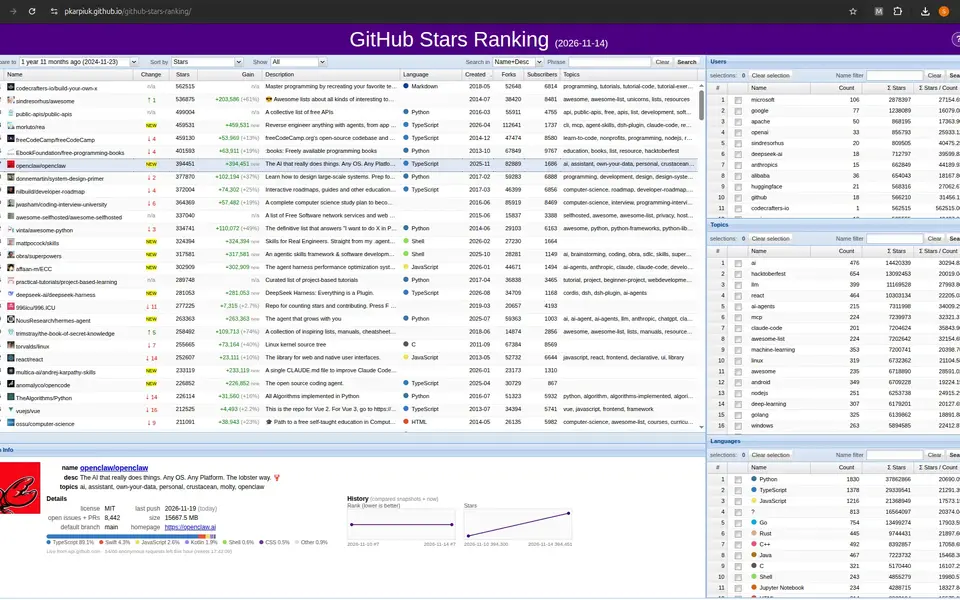
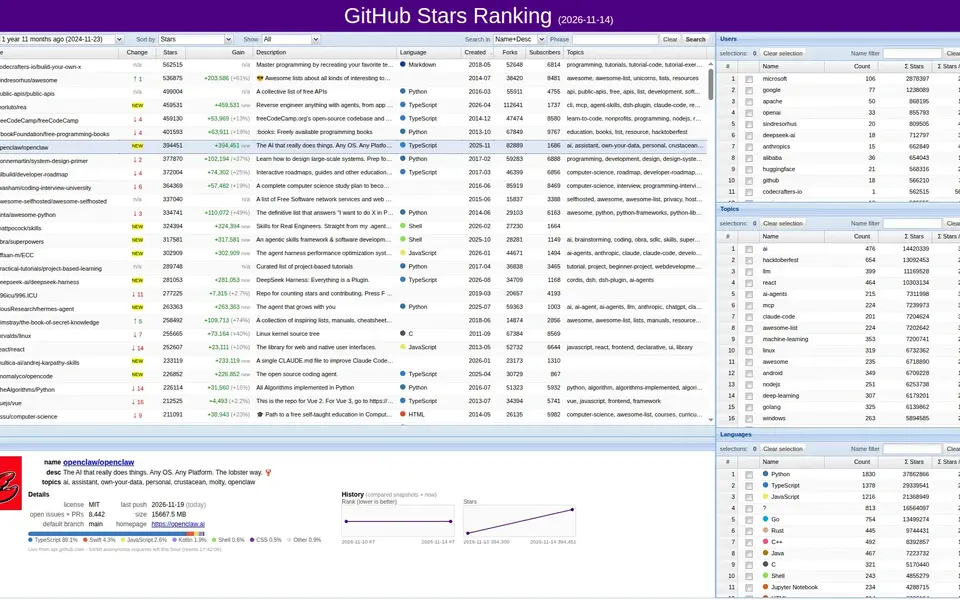
Nowa aplikacja: chrome-ext-ranking

diff --git a/index.html b/index.html
@@ -34,6 +34,21 @@
           <a class="link-deployment" href="https://pkarpiuk.github.io/github-stars-ranking/">Deployment</a>
         </p>
       </article>
+      <article class="project" id="chrome-extensions-ranking-1">
+        <h3>Chrome Extensions Ranking</h3>
+        <p>A ranking of most popular Google Chrome extensions</p>
+        <ul class="tags">
+          <li>JavaScript</li>
+        </ul>
+        <div class="screenshots">
+          <a class="thumb" href="#chrome-extensions-ranking-1-shot-0"><img src="imgs/thumbs/chrome-ext-ranking.webp" alt="Chrome Extensions Ranking screenshot" loading="lazy"></a>
+          <a class="lightbox" id="chrome-extensions-ranking-1-shot-0" href="#chrome-extensions-ranking-1"><img src="imgs/chrome-ext-ranking.webp" alt="Chrome Extensions Ranking screenshot" loading="lazy"></a>
+        </div>
+        <p class="links">
+          <a class="link-source" href="https://github.com/pkarpiuk/chrome-ext-ranking">Source</a>
+          <a class="link-deployment" href="https://chrome-ext-ranking.devlab4fun.workers.dev/">Deployment</a>
+        </p>
+      </article>
       <!-- END SHOWCASE -->
     </section>
   </main>
